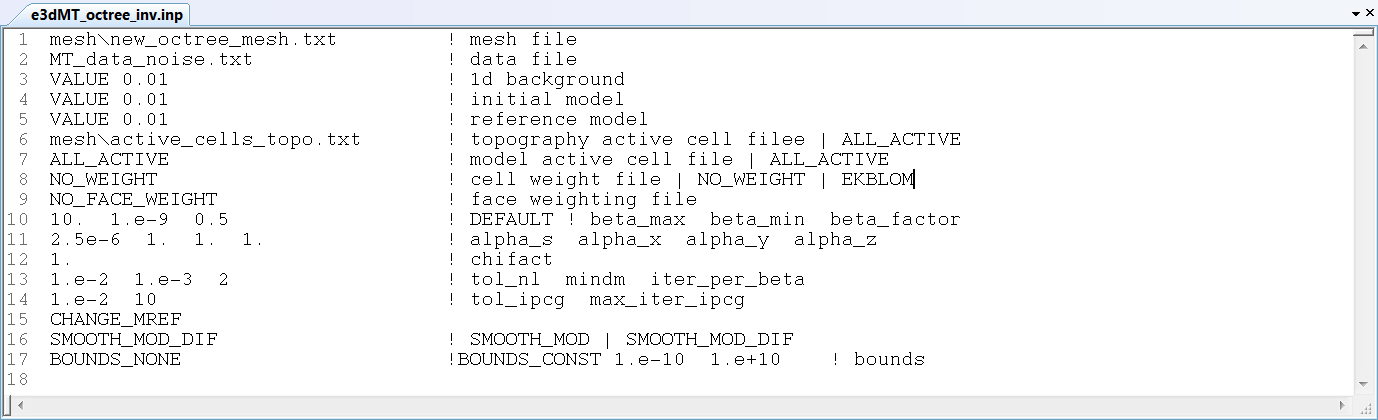
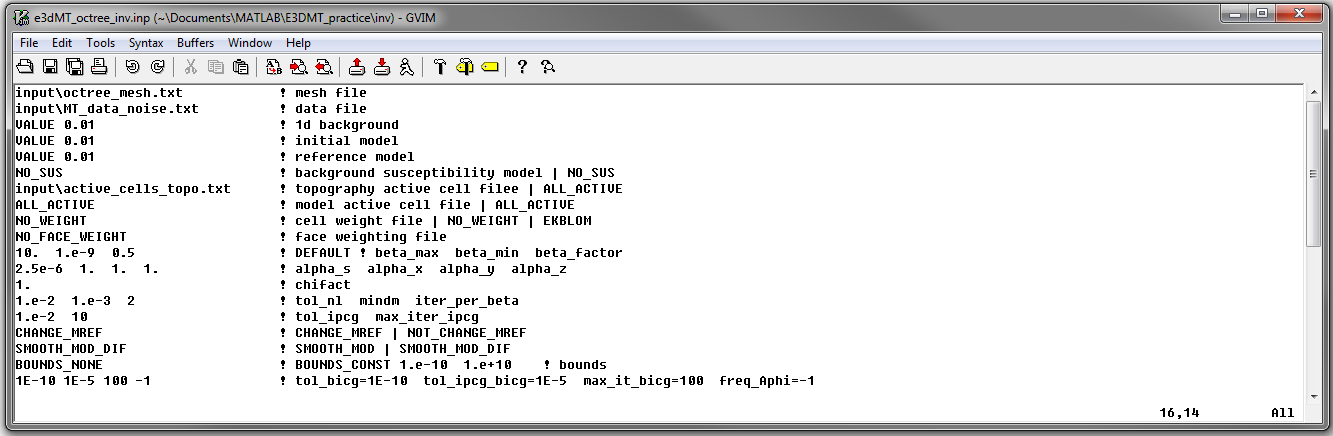
Add fwd and inversion images

diff --git a/content/programs/inversion.rst b/content/programs/inversion.rst
@@ -16,7 +16,20 @@ To run the inversion, open a command line window and type the following:
 
 The *mpiexec* call is used for parallelization. This is followed by the flag *-n*, then the number of frequencies (*"nFreq"*). This is followed by the inversion executable and the corresponding input file.
 
+Units:
+------
 
+**Input:**
+
+    - **MT data:** Real and imaginary components of impedance tensor entries (V/A)
+    - **ZTEM data:** Real and imaginary components of transfer function entries (unitless)
+    - **Reference/starting conductivity model:** S/m 
+    - **Background susceptibility model:** SI
+    - **Model/interface weights:** unitless
+
+**Output:**
+
+    - **Conductivity model:** S/m
 
 Input
 -----
@@ -28,18 +41,20 @@ The lines of input file (**e3dMT_octree_inv.inp**) are formatted as follows:
 | :ref:`1D Background Conductivity<e3dmt_inv_ln3>`
 | :ref:`Initial Model<e3dmt_inv_ln4>`
 | :ref:`Reference Model<e3dmt_inv_ln5>`
-| :ref:`Active Topography Cells<e3dmt_inv_ln6>`
-| :ref:`Active Model Cells<e3dmt_inv_ln7>`
-| :ref:`Cell Weights<e3dmt_inv_ln8>`
-| :ref:`Face Weights<e3dmt_inv_ln9>`
-| :ref:`beta_max beta_min beta_factor<e3dmt_inv_ln10>`
-| :ref:`alpha_s alpha_x alpha_y alpha_z<e3dmt_inv_ln11>`
-| :ref:`Chi Factor<e3dmt_inv_ln12>`
-| :ref:`tol_nl mindm iter_per_beta<e3dmt_inv_ln13>`
-| :ref:`tol_ipcg max_iter_ipcg<e3dmt_inv_ln14>`
-| :ref:`Reference Model Update<e3dmt_inv_ln15>`
-| :ref:`Hard Constraints<e3dmt_inv_ln16>`
-| :ref:`Bounds<e3dmt_inv_ln17>`
+| :ref:`Background Susceptibility Model<e3dmt_inv_ln6>`
+| :ref:`Active Topography Cells<e3dmt_inv_ln7>`
+| :ref:`Active Model Cells<e3dmt_inv_ln8>`
+| :ref:`Cell Weights<e3dmt_inv_ln9>`
+| :ref:`Face Weights<e3dmt_inv_ln10>`
+| :ref:`beta_max beta_min beta_factor<e3dmt_inv_ln11>`
+| :ref:`alpha_s alpha_x alpha_y alpha_z<e3dmt_inv_ln12>`
+| :ref:`Chi Factor<e3dmt_inv_ln13>`
+| :ref:`tol_nl mindm iter_per_beta<e3dmt_inv_ln14>`
+| :ref:`tol_ipcg max_iter_ipcg<e3dmt_inv_ln15>`
+| :ref:`Reference Model Update<e3dmt_inv_ln16>`
+| :ref:`Hard Constraints<e3dmt_inv_ln17>`
+| :ref:`Bounds<e3dmt_inv_ln18>`
+| :ref:`BICG Parameters<e3dmt_inv_ln19>`
 |
 |
 
@@ -75,51 +90,67 @@ The lines of input file (**e3dMT_octree_inv.inp**) are formatted as follows:
 
 .. _e3dmt_inv_ln6:
 
-    - **Active Topography Cells:** Here, the user can choose to specify the cells which lie below the surface topography. To do this, the user may supply the file path to an active cells model file or type "ALL_ACTIVE". The active cells model has values 1 for cells lying below the surface topography and values 0 for cells lying above.
+    - **Reference Susceptibility Model:** The user may supply the file path to a background susceptibility model. If the Earth is non-magnetic, the user may use the flag "NO_SUS".
 
 .. _e3dmt_inv_ln7:
 
-    - **Active Model Cells:** Here, the user can choose to specify the model cells which are active during the inversion. To do this, the user may supply the file path to an active cells model file or type "ALL_ACTIVE". The active cells model has values 1 for cells lying below the surface topography and values 0 for cells lying above. Values for inactive cells are provided by the background conductivity model.
+    - **Active Topography Cells:** Here, the user can choose to specify the cells which lie below the surface topography. To do this, the user may supply the file path to an active cells model file or type "ALL_ACTIVE". The active cells model has values 1 for cells lying below the surface topography and values 0 for cells lying above.
 
 .. _e3dmt_inv_ln8:
 
-    - **Cell Weights:** Here, the user specifies whether cell weights are supplied. If so, the user provides the file path to a :ref:`cell weights file <weightsFile>`  If no additional cell weights are supplied, the user enters "NO_WEIGHT".
+    - **Active Model Cells:** Here, the user can choose to specify the model cells which are active during the inversion. To do this, the user may supply the file path to an active cells model file or type "ALL_ACTIVE". The active cells model has values 1 for cells lying below the surface topography and values 0 for cells lying above. Values for inactive cells are provided by the background conductivity model.
 
 .. _e3dmt_inv_ln9:
 
-    - **Face Weights:** Here, the user specifies whether face weights are supplied. If so, the user provides the file path to a face weights file :ref:`cell weights file <weightsFile>`. If no additional cell weights are supplied, the user enters "NO_FACE_WEIGHT". The user may also enter "EKBLOM" for 1-norm approximation to recover sharper edges.
+    - **Cell Weights:** Here, the user specifies whether cell weights are supplied. If so, the user provides the file path to a :ref:`cell weights file <weightsFile>`  If no additional cell weights are supplied, the user enters "NO_WEIGHT".
 
 .. _e3dmt_inv_ln10:
 
-    - **beta_max beta_min beta_factor:** Here, the user specifies protocols for the trade-off parameter (beta). *beta_max* is the initial value of beta, *beta_min* is the minimum allowable beta the program can use before quitting and *beta_factor* defines the factor by which beta is decreased at each iteration; example "1E4 10 5". The user may also enter "DEFAULT" if they wish to have beta calculated automatically.
+    - **Face Weights:** Here, the user specifies whether face weights are supplied. If so, the user provides the file path to a face weights file :ref:`cell weights file <weightsFile>`. If no additional cell weights are supplied, the user enters "NO_FACE_WEIGHT". The user may also enter "EKBLOM" for 1-norm approximation to recover sharper edges.
 
 .. _e3dmt_inv_ln11:
 
-    - **alpha_s alpha_x alpha_y alpha_z:** Alpha parameters (**LINK** section 2.5). Here, the user specifies the relative weighting between the smallness and smoothness component penalties on the recovered models.
+    - **beta_max beta_min beta_factor:** Here, the user specifies protocols for the trade-off parameter (beta). *beta_max* is the initial value of beta, *beta_min* is the minimum allowable beta the program can use before quitting and *beta_factor* defines the factor by which beta is decreased at each iteration; example "1E4 10 5". The user may also enter "DEFAULT" if they wish to have beta calculated automatically.
 
 .. _e3dmt_inv_ln12:
 
-    - **Chi Factor:** The chi factor defines the target misfit for the inversion. A chi factor of 1 means the target misfit is equal to the total number of data observations.
+    - **alpha_s alpha_x alpha_y alpha_z:** Alpha parameters (**LINK** section 2.5). Here, the user specifies the relative weighting between the smallness and smoothness component penalties on the recovered models.
 
 .. _e3dmt_inv_ln13:
 
-	- **tol_nl mindm iter_per_beta:** Here, the user specifies the number of Newton iterations. *tol_nl* is the Newton iteration tolerance (how close the gradient is to zero), *mindm* is the minimum model perturbation :math:`\delta m` allowed and iter_per_beta is the number of iterations per beta value.
+    - **Chi Factor:** The chi factor defines the target misfit for the inversion. A chi factor of 1 means the target misfit is equal to the total number of data observations.
 
 .. _e3dmt_inv_ln14:
 
-	- **tol_ipcg max_iter_ipcg:** Here, the user specifies solver parameters. *tol_ipcg* defines how well the iterative solver does when solving for :math:`\delta m` and *max_item_ipcg* is the maximum iterations of incomplete-preconditioned-conjugate gradient.
+	- **tol_nl mindm iter_per_beta:** Here, the user specifies the number of Newton iterations. *tol_nl* is the Newton iteration tolerance (how close the gradient is to zero), *mindm* is the minimum model perturbation :math:`\delta m` allowed and iter_per_beta is the number of iterations per beta value.
 
 .. _e3dmt_inv_ln15:
 
-	- **Reference Model Update:** Here, the user specifies whether the reference model is updated at each inversion step result. If so, enter "CHANGE_MREF". If not, enter "NOT_CHANGE_MREF".
+	- **tol_ipcg max_iter_ipcg:** Here, the user specifies solver parameters. *tol_ipcg* defines how well the iterative solver does when solving for :math:`\delta m` and *max_item_ipcg* is the maximum iterations of incomplete-preconditioned-conjugate gradient.
 
 .. _e3dmt_inv_ln16:
 
-	- **Hard Constraints:** Choose to run the inversion without implementing a reference model (essential :math:`m_{ref}=0` (**SHOULDN'T THIS BE SMALLNESS ONLY**). Choose "SMOOTH_MODEL_DIF" to constrain the inversion using a reference model.
+	- **Reference Model Update:** Here, the user specifies whether the reference model is updated at each inversion step result. If so, enter "CHANGE_MREF". If not, enter "NOT_CHANGE_MREF".
 
 .. _e3dmt_inv_ln17:
 
+	- **Hard Constraints:** Choose to run the inversion without implementing a reference model (essential :math:`m_{ref}=0` (**SHOULDN'T THIS BE SMALLNESS ONLY**). Choose "SMOOTH_MODEL_DIF" to constrain the inversion using a reference model.
+
+.. _e3dmt_inv_ln18:
+
 	- **Bounds:** Bound constraints on the recovered model. Choose "BOUNDS_CONST" and enter the values of the minimum and maximum model conductivity; example "BOUNDS_CONST 1E-6 0.1". Enter "BOUNDS_NONE" if the inversion is unbounded, or if there is no a-prior information about the subsurface model.
+
+.. _e3dmt_inv_ln19:
+
+    - **BICG Parameters (omit line if using direct solver):** In order, the user specifies values for *tol_bicg*, *tol_ipcg_bicg*, *max_it_bicg* and *freq_Aphi*. For the practice example, the following was used: *1E-10 1E-5 100 -1*.
+
+
+.. figure:: images/inv_results.png
+     :align: center
+     :width: 700
+
+     Recovered model (left) and true model (right).
+
 
 
 Output Files

diff --git a/content/programs/forward.rst b/content/programs/forward.rst
@@ -15,6 +15,20 @@ To run the forward modeling program, open a command line window. Type the path t
      :width: 700
 
 
+Units:
+------
+
+**Input:**
+
+    - **Conductivity model:** S/m
+    - **Background susceptibility model:** SI
+
+**Output:**
+
+    - **MT data:** Real and imaginary components of impedance tensor entries (V/A)
+    - **ZTEM data:** Real and imaginary components of transfer function entries (unitless)
+
+
 Input
 -----
 
@@ -71,6 +85,11 @@ The lines of input file (**e3dMT_octree_fwd.inp**) are formatted as follows:
     - **Topography:** The user may supply the file path to an active cells model file or type "ALL_ACTIVE". The active cells model has values 1 for cells lying below the surface topography and values 0 for cells lying above.
 
 
+.. figure:: images/fwd_results.png
+     :align: center
+     :width: 700
+
+     In-phase (left) and quadrature (right) components of impedance tensor element :math:`Z_{xy}` for the L-shaped conductor.
 
 
 .. _e3dmt_fwd_output:
